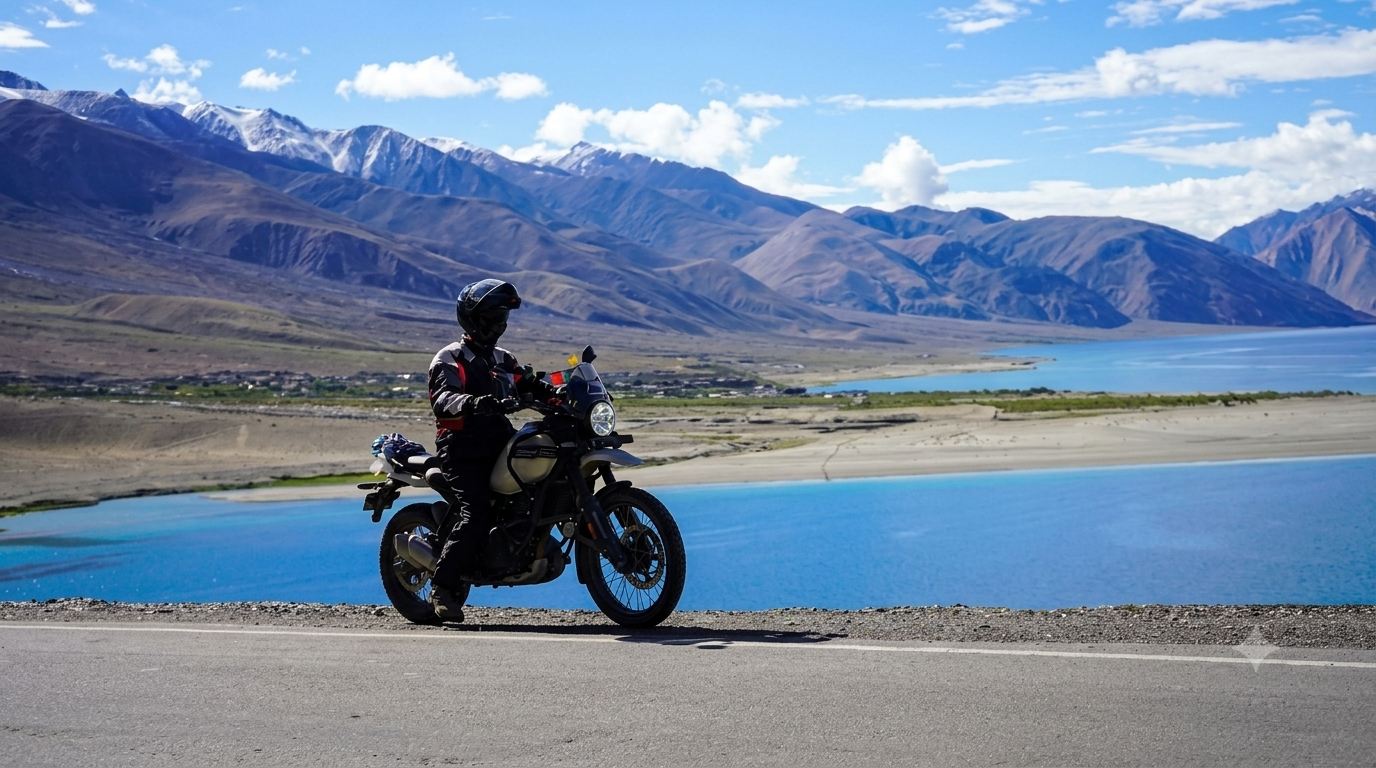
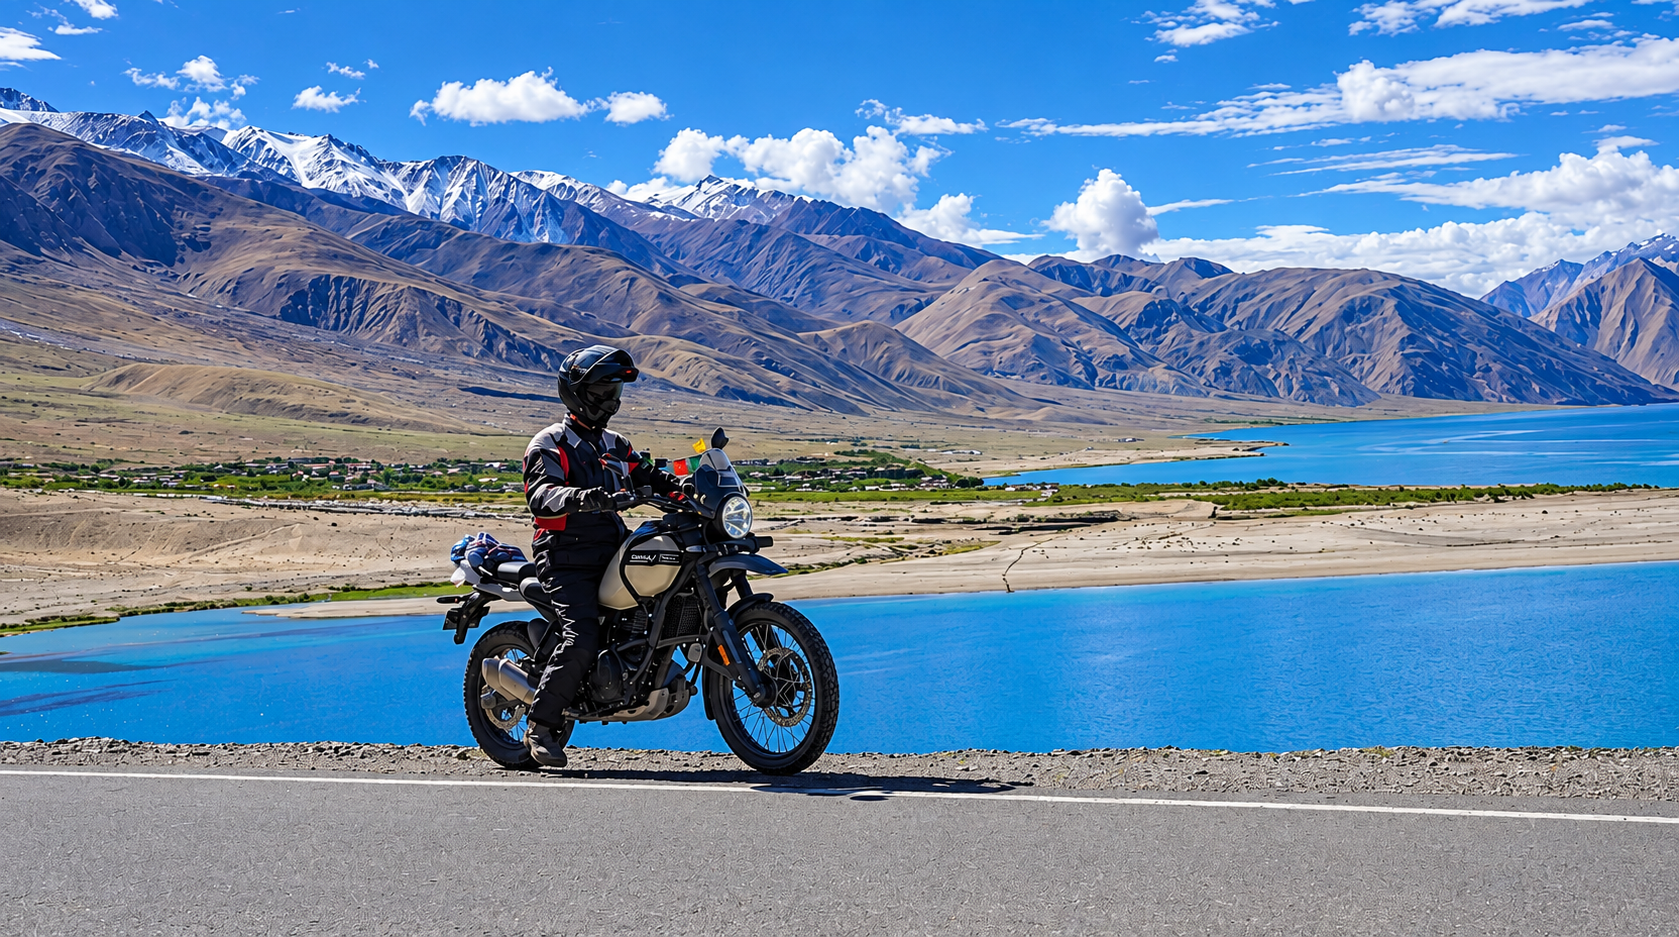
small name change from jpg to GPG

diff --git a/data/images.js b/data/images.js
@@ -118,7 +118,7 @@ const HIGHEST_ROAD_PHOTOS_2025 = [
 const WST_DIR = "/images/past%20journeys/wildlife%20and%20spice%20trail";
 const WILDLIFE_AND_SPICE_TRAIL_PHOTOS = [
   `${WST_DIR}/spice-trail-hero-photo.png`,
-  `${WST_DIR}/camp.jpg`,
+  `${WST_DIR}/camp.JPG`,
   `${WST_DIR}/road.png`,
   `${WST_DIR}/pass.png`,
   `${WST_DIR}/view.png`,
